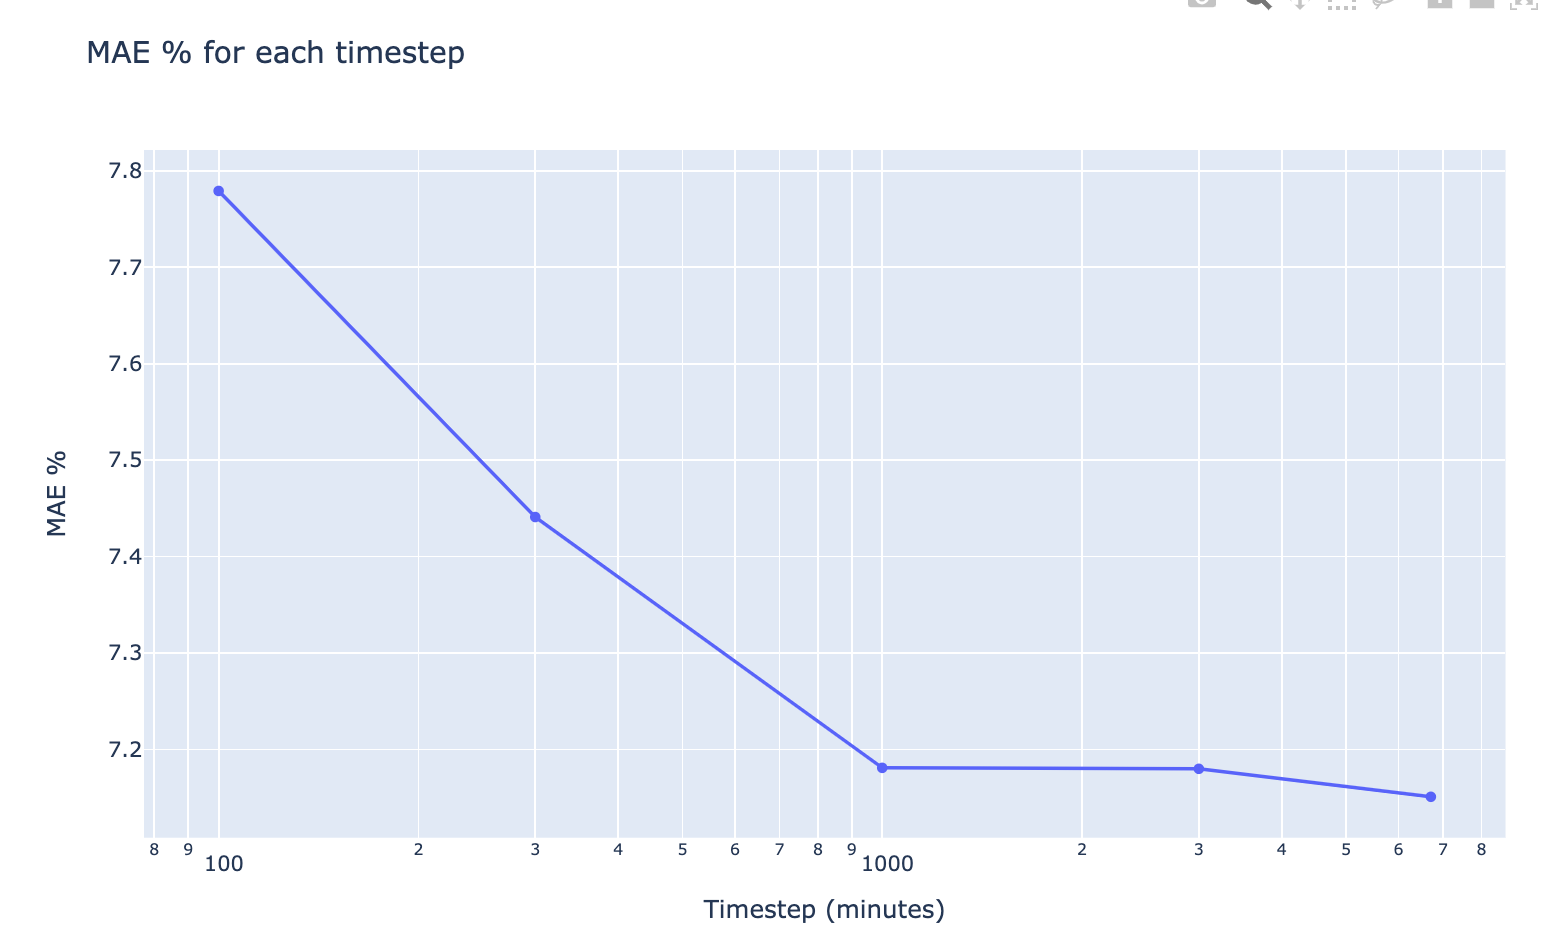
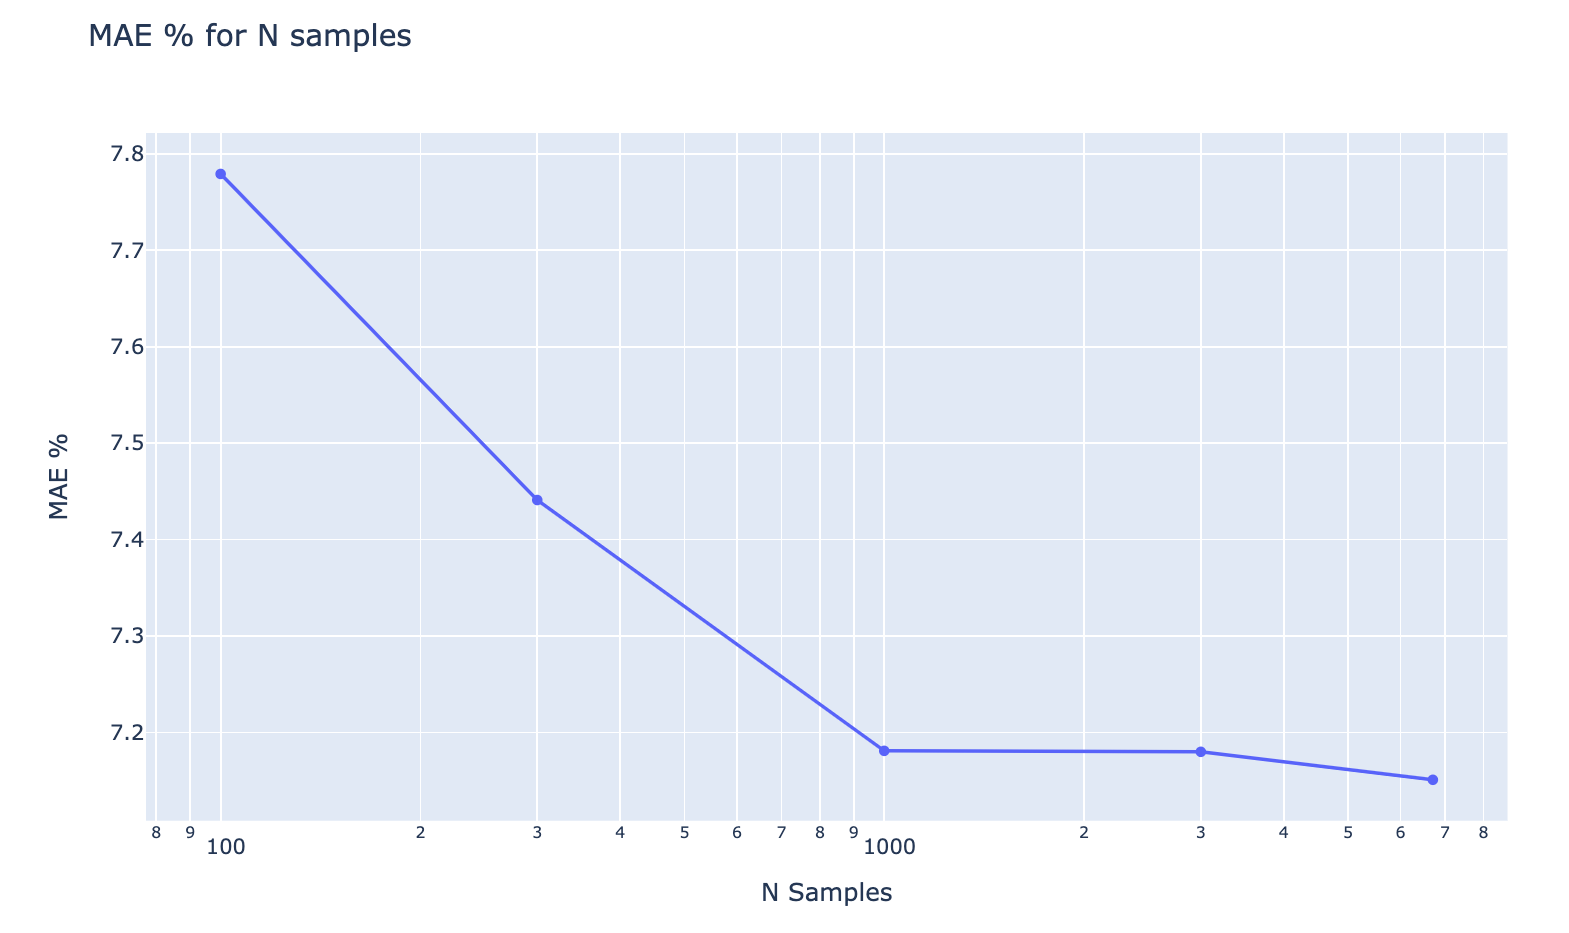
update plot

diff --git a/experiments/india/004_n_training_samples/log-plot.py b/experiments/india/004_n_training_samples/log-plot.py
@@ -9,7 +9,7 @@ df = df.DataFrame(data, columns=["n_samples", "MAE [%]"])
 fig = go.Figure()
 fig.add_trace(go.Scatter(x=df["n_samples"], y=df["MAE [%]"], mode="lines+markers"))
 fig.update_layout(
-    title="MAE % for each timestep", xaxis_title="Timestep (minutes)", yaxis_title="MAE %"
+    title="MAE % for N samples", xaxis_title="N Samples", yaxis_title="MAE %"
 )
 # change to log log
 fig.update_xaxes(type="log")
